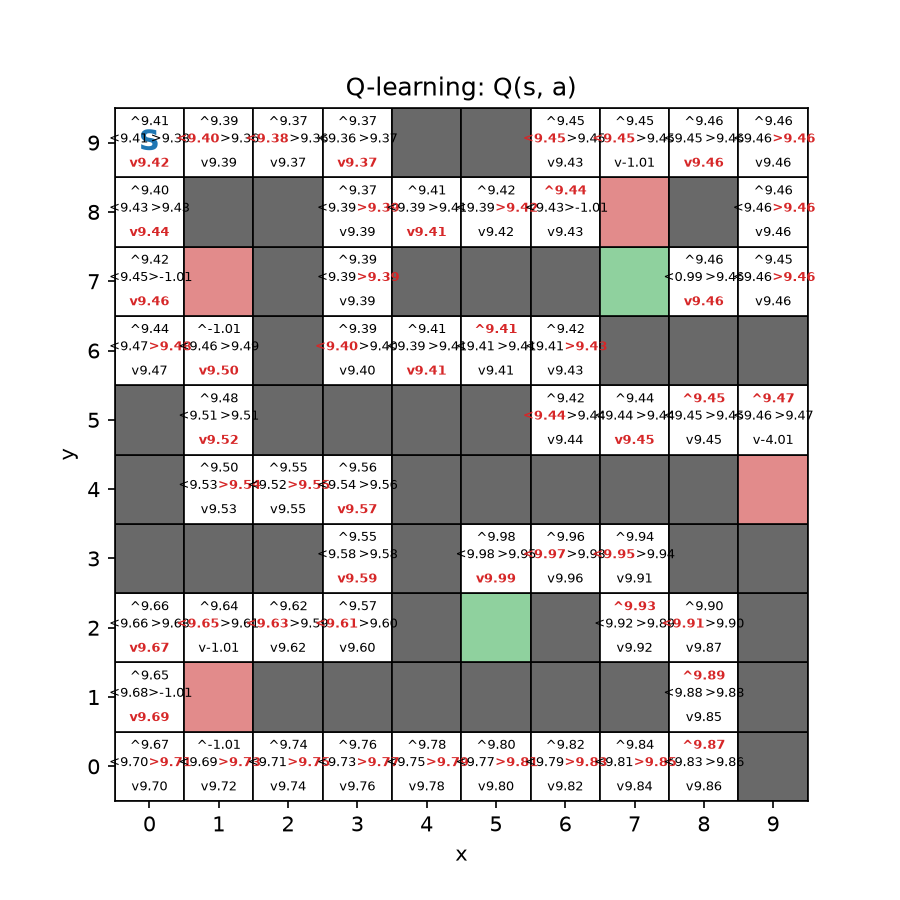
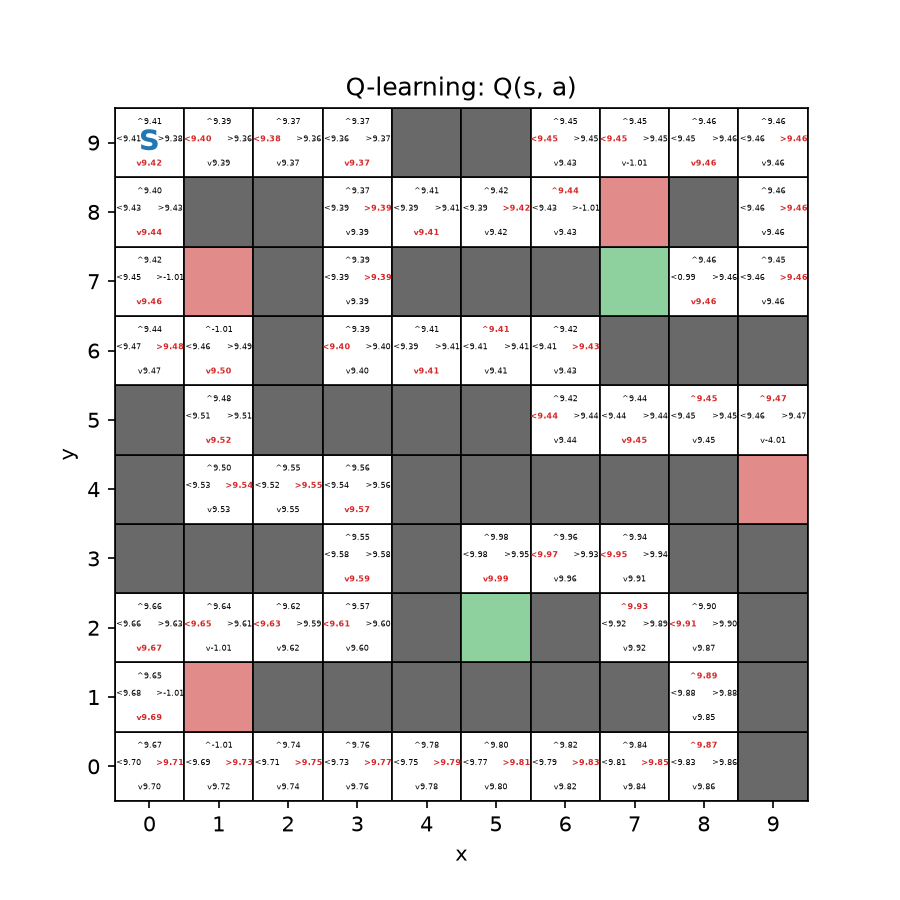
separating experiments

Changed region(s): [[0.1244, 0.1244, 0.9022, 0.9022]]

diff --git a/gridworld/examples.py b/gridworld/examples.py
@@ -133,15 +133,7 @@ def make_reward_shaping_gridworld(seed: int | None = 0, render_mode: str | None 
 def make_maze_gridworld(seed: int | None = 0, render_mode: str | None = None) -> GridWorldEnv:
     walls: set[tuple[int, int]] = set()
     walls |= {(0, y) for y in (3, 4, 5)}
-    walls |= {(1, y) for y in (3, 8)}
-    walls |= {(2, y) for y in (1, 3, 5, 6, 7, 8)}
-    walls |= {(3, y) for y in (1, 5)}
-    walls |= {(4, y) for y in (1, 2, 3, 4, 5, 7, 9)}
-    walls |= {(5, y) for y in (1, 4, 5, 7, 9)}
-    walls |= {(6, y) for y in (1, 2, 4, 7)}
-    walls |= {(7, y) for y in (1, 4, 6)}
-    walls |= {(8, y) for y in (3, 4, 6, 8)}
-    walls |= {(9, y) for y in (0, 1, 2, 3, 6)}
+    walls = ()
 
     shaping_rewards = {
         (1, 5): 0.03,
@@ -287,19 +279,8 @@ def make_risky_mining_gridworld(
 def make_continuous_mining_gridworld(
     seed: int | None = 0, render_mode: str | None = None
 ) -> MineWorldEnv:
-    """Example 8: mining with a *continuous* (log-normal) payout.
-
-    Identical to :func:`make_mining_gridworld` apart from the payout law: a
-    successful m-th mine pays ``LogNormal(log mu(m), sigma(m))``, whose
-    median is ``mu(m)`` and whose spread widens with ``m``.
-
-    This example is **simulation-only**: a continuous reward distribution has
-    no finite support, so ``transition_probabilities`` raises
-    :class:`~gridworld.mining_config.ContinuousRewardModelError` rather than
-    silently substituting an expectation. Use it with model-free methods
-    (``q_learning``, Stable-Baselines3) and contrast it with the exactly
-    solvable examples above.
-    """
+    
+    
     config = MineWorldConfig(
         width=5,
         height=5,
@@ -330,6 +311,11 @@ def make_continuous_mining_gridworld(
 def make_deep_mining_gridworld(
     seed: int | None = 0, render_mode: str | None = None
 ) -> MineWorldEnv:
+
+    walls: set[tuple[int, int]] = set()
+    walls |= {(1, y) for y in (0,1,2,3,4,5)}
+    walls |= {(5, y) for y in (2,3,4,5,6)}
+    walls |= {(2,5),(3,5),(3,2),(4,2)}
     
     config = MineWorldConfig(
         width=7,
@@ -337,7 +323,7 @@ def make_deep_mining_gridworld(
         start=(0, 0),
         terminal_states={(6, 6): 10},
         rewards={},
-        walls=set(),
+        walls=walls,
         step_reward=-0.01,
         invalid_move_reward=-0.05,
         slip_probability=0.0,
@@ -353,7 +339,6 @@ def make_deep_mining_gridworld(
         positive_reward_base_mean=10,
         positive_reward_mean_increment=20,
         mining_failure_reward=-100.0,
-        mining_failure_reward_proportion=1.0,
         
     )
     return MineWorldEnv(config, render_mode=render_mode)

diff --git a/scripts/maze_run_q_learning.py b/scripts/maze_run_q_learning.py
@@ -50,17 +50,17 @@ def main() -> None:
 
     plot_learning_curve(
         episode_returns,
-        save_path=os.path.join(OUTPUT_DIR, "q_learning_curve.png"),
+        save_path=os.path.join(OUTPUT_DIR, "maze_q_learning_curve_.png"),
         title="Q-learning: episode return on maze GridWorld",
     )
 
     ax = plot_policy(env, policy, title="Q-learning: greedy policy")
-    ax.get_figure().savefig(os.path.join(OUTPUT_DIR, "q_learning_policy.png"), dpi=150)
+    ax.get_figure().savefig(os.path.join(OUTPUT_DIR, "maze_q_learning_policy.png"), dpi=150)
     plt.close(ax.get_figure())
 
     # Also save a Q-value grid (action-values in each state).
     ax = plot_q_values(env, Q, title="Q-learning: Q(s, a)")
-    ax.get_figure().savefig(os.path.join(OUTPUT_DIR, "q_learning_q_values.png"), dpi=150)
+    ax.get_figure().savefig(os.path.join(OUTPUT_DIR, "maze_q_learning_q_values.png"), dpi=150)
     plt.close(ax.get_figure())
 
     # Roll out one episode with the learned greedy policy and animate it.
@@ -75,7 +75,7 @@ def main() -> None:
 
     print("shaping rewards in config:", env.config.rewards)
     print("trajectory rewards recorded:", len(env.trajectory["rewards"]))
-    save_path = os.path.join(OUTPUT_DIR, "q_learning_agent.gif")
+    save_path = os.path.join(OUTPUT_DIR, "maze_q_learning_agent.gif")
     animate_episode(env, save_path=save_path, fps=2, show_policy=policy)
     print(f"Saved animation to {save_path}")
     print("config start:", env.config.start)

diff --git a/gridworld/mining_config.py b/gridworld/mining_config.py
@@ -177,7 +177,6 @@ class MineWorldConfig(GridWorldConfig):
     # --- the failure branch ----------------------------------------------
     mining_failure_reward: float = -10.0
     mining_failure_reward_increment: float = 0.0
-    mining_failure_reward_proportion: float = 0.0
 
     # --- mining where there is nothing to mine ----------------------------
     invalid_mining_reward: float | None = None
@@ -300,10 +299,7 @@ class MineWorldConfig(GridWorldConfig):
             raise ValueError("mining_failure_reward should be <= 0 (it is a penalty)")
         if self.mining_failure_reward_increment < 0.0:
             raise ValueError("mining_failure_reward_increment must be >= 0")
-        if self.mining_failure_reward_proportion < 0.0:
-            raise ValueError(
-                "mining_failure_reward_proportion must be >= 0 (it scales a penalty)"
-            )
+        
 
     def _validate_state_space_size(self) -> None:
         size = self.state_space_size
@@ -404,7 +400,7 @@ class MineWorldConfig(GridWorldConfig):
         return float(
             self.mining_failure_reward
             - (m - 1) * self.mining_failure_reward_increment
-            - self.mining_failure_reward_proportion * banked
+            - banked
         )
 
     def positive_reward_support(self, m: int) -> tuple[tuple[float, float], ...]:

diff --git a/gridworld/plotting.py b/gridworld/plotting.py
@@ -358,7 +358,7 @@ def plot_q_values(
                 ax.text(
                     x + dx, y + dy,
                     f"{_ACTION_LABELS[action]}{q_row[action]:.2f}",
-                    ha="center", va="center", fontsize=6, fontweight=weight, color=color,
+                    ha="center", va="center", fontsize=4, fontweight=weight, color=color,
                 )
     return ax
 

diff --git a/gridworld/maze_gridworld.py b/gridworld/maze_gridworld.py
@@ -35,7 +35,7 @@ def make_maze_gridworld(seed: int | None = 0, render_mode: str | None = None) ->
         rewards={},
         walls=walls,
         step_reward=-0.01,
-        invalid_move_reward=0,
+        invalid_move_reward=0.05,
         slip_probability=0.0,
         max_steps=100,
         seed=seed,
